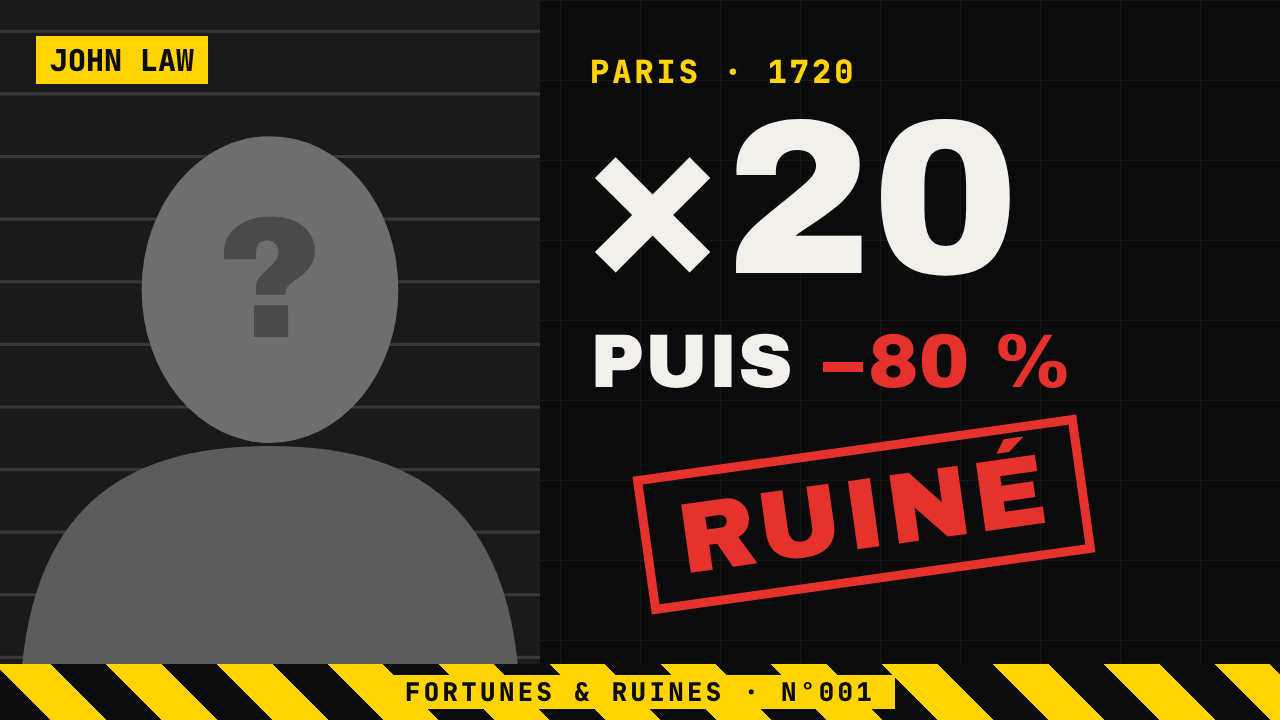
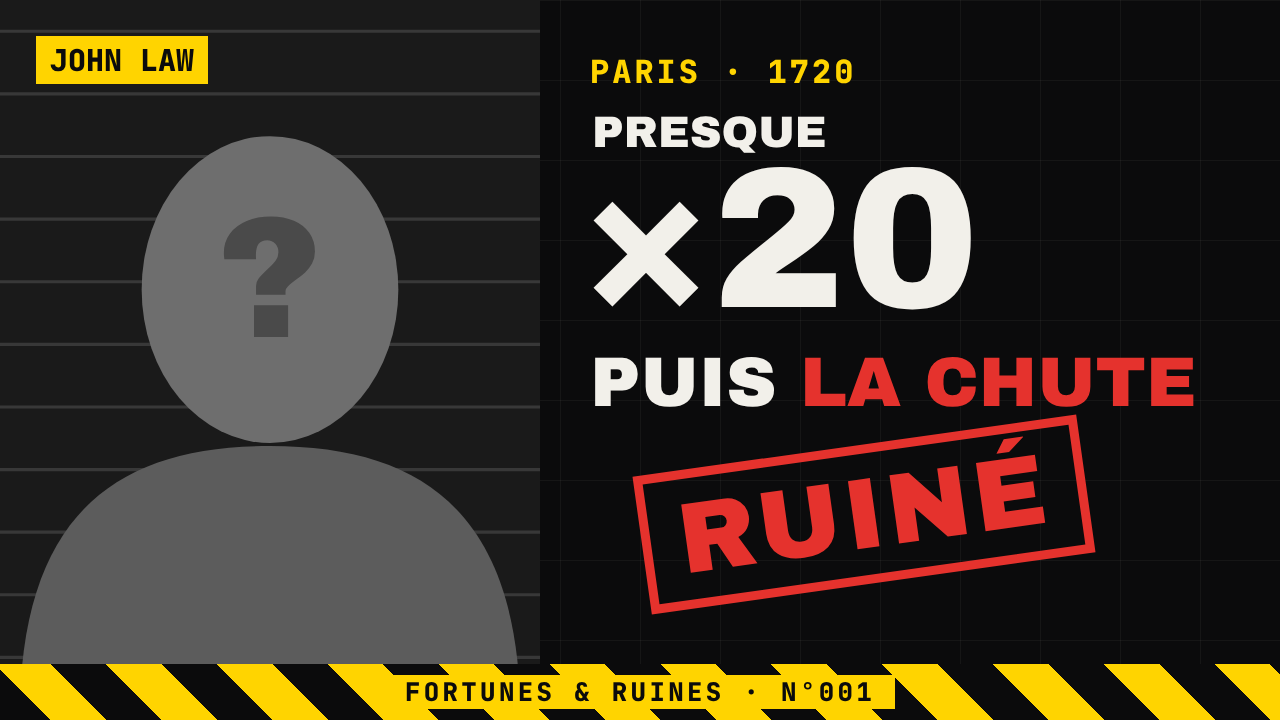
Fusion Claude × ChatGPT : courbes « schéma », « presque ×20 », vrai mécanisme de la chute, tampon sur l'édit, mention reconstitution
Claude-Session: https://claude.ai/code/session_01A2jiqY9XGbzc4Md3oYs5iW

Changed region(s): [[0.4688, 0.1528, 0.8125, 0.4278], [0.4375, 0.4583, 0.9375, 0.5806]]

diff --git a/histoire-argent/src/scenes/illustrated.tsx b/histoire-argent/src/scenes/illustrated.tsx
@@ -155,7 +155,7 @@ export const Crowd: React.FC<{kicker?: string; title: string; ticker: string}> =
 };
 
 // ── Compteur nerveux : paliers successifs, chaque palier frappe.
-export const Ticker: React.FC<{values: number[]; unit: string; label: string}> = ({values, unit, label}) => {
+export const Ticker: React.FC<{values: number[]; unit: string; label: string; note?: string}> = ({values, unit, label, note}) => {
   const f = useCurrentFrame(); const {fps, durationInFrames} = useVideoConfig(); const {s, width, height} = useScale();
   const step = Math.max(10, Math.floor((durationInFrames - 10) / values.length));
   const idx = Math.min(values.length - 1, Math.floor(f / step));
@@ -168,10 +168,11 @@ export const Ticker: React.FC<{values: number[]; unit: string; label: string}> =
     <AbsoluteFill style={{justifyContent: 'center', alignItems: 'center'}}>
       {/* pile de billets qui monte */}
       <div style={{position: 'absolute', bottom: height * 0.18, left: width / 2 - 200 * s, width: 400 * s, height: height * 0.36 * pct,
-        background: `repeating-linear-gradient(0deg, ${C.paper} 0 ${10 * s}px, ${C.ink} ${10 * s}px ${13 * s}px)`, opacity: 0.25}} />
+        background: C.gold, opacity: 0.12}} />
       <div style={{fontFamily: F.mono, fontSize: 34 * s, letterSpacing: 7 * s, color: C.gold, textTransform: 'uppercase', marginBottom: 20 * s}}>{label}</div>
-      <div style={{fontFamily: F.impact, fontSize: 330 * s, lineHeight: 1, color: C.paper, fontVariantNumeric: 'tabular-nums', transform: `scale(${1.25 - 0.25 * punch})`}}>{fmt(v)}</div>
+      <div style={{fontFamily: F.impact, fontSize: 210 * s, lineHeight: 1, whiteSpace: 'nowrap', color: C.paper, fontVariantNumeric: 'tabular-nums', transform: `scale(${1.25 - 0.25 * punch})`}}>{fmt(v)}</div>
       <div style={{fontFamily: F.display, fontStyle: 'italic', fontSize: 70 * s}}>{unit}</div>
+      {note && <div style={{fontFamily: F.mono, fontWeight: 800, fontSize: 24 * s, letterSpacing: 3 * s, color: C.dim, marginTop: 24 * s, textTransform: 'uppercase'}}>{note}</div>}
       <div style={{position: 'absolute', inset: 0, background: C.paper, opacity: Math.max(0, 0.25 - local * 0.05)}} />
     </AbsoluteFill>
   );
@@ -193,6 +194,7 @@ export const Doc: React.FC<{kicker: string; lines: string[]; seal?: string; redL
               lineHeight: 1.15, marginTop: 34 * s, color: i === redLine ? C.red : C.bg, opacity: fadeIn(f, 10 + i * 8)}}>{l}</div>
           ))}
           {[...Array(5)].map((_, i) => <div key={i} style={{height: 3 * s, background: C.ink, opacity: 0.15, marginTop: 34 * s, width: `${90 - i * 9}%`}} />)}
+          <div style={{position: 'absolute', left: 70 * s, bottom: 40 * s, fontFamily: F.mono, fontWeight: 800, fontSize: 20 * s, letterSpacing: 4 * s, color: C.dim}}>RECONSTITUTION</div>
           {seal && (
             <div style={{position: 'absolute', right: 60 * s, bottom: 60 * s, width: 190 * s, height: 190 * s, borderRadius: '50%', background: C.red, color: C.paper,
               display: 'flex', alignItems: 'center', justifyContent: 'center', fontFamily: F.display, fontWeight: 800, fontSize: 40 * s, textAlign: 'center',

diff --git a/histoire-argent/src/Stills.tsx b/histoire-argent/src/Stills.tsx
@@ -52,15 +52,16 @@ export const Banner: React.FC = () => {
 
 export const Thumbnail: React.FC<{episode: Episode}> = ({episode}) => {
   useBrandFonts();
-  const t = episode.thumbnail as {place: string; name: string; big: string; stamp: string; sub?: string};
+  const t = episode.thumbnail as {place: string; name: string; big: string; stamp: string; sub?: string; kicker?: string};
   return (
     <AbsoluteFill style={{background: C.bg, color: C.paper}}>
       <Grid step={80} />
       <div style={{position: 'absolute', left: 0, top: 0, bottom: 0, width: 540, overflow: 'hidden'}}><Mugshot w={540} h={720} /></div>
       <div style={{position: 'absolute', left: 36, top: 36, fontFamily: F.mono, fontWeight: 800, fontSize: 30, background: C.gold, color: C.bg, padding: '4px 14px'}}>{t.name.replace('\n', ' ').toUpperCase()}</div>
       <div style={{position: 'absolute', left: 590, top: 50, fontFamily: F.mono, fontWeight: 800, fontSize: 32, color: C.gold, letterSpacing: 3, textTransform: 'uppercase'}}>{t.place}</div>
-      <div style={{position: 'absolute', left: 580, top: 90, fontFamily: F.display, fontSize: 220, lineHeight: 1}}>{t.big}</div>
-      {t.sub && <div style={{position: 'absolute', left: 590, top: 320, fontFamily: F.display, fontSize: 76, textTransform: 'uppercase'}}>{t.sub.split(' ')[0]} <span style={{color: C.red}}>{t.sub.split(' ').slice(1).join(' ')}</span></div>}
+      {t.kicker && <div style={{position: 'absolute', left: 592, top: 108, fontFamily: F.display, fontSize: 44, color: C.paper, textTransform: 'uppercase'}}>{t.kicker}</div>}
+      <div style={{position: 'absolute', left: 580, top: t.kicker ? 140 : 90, fontFamily: F.display, fontSize: t.kicker ? 200 : 220, lineHeight: 1}}>{t.big}</div>
+      {t.sub && <div style={{position: 'absolute', left: 590, top: 345, fontFamily: F.display, fontSize: 70, textTransform: 'uppercase'}}>{t.sub.split(' ')[0]} <span style={{color: C.red}}>{t.sub.split(' ').slice(1).join(' ')}</span></div>}
       <div style={{position: 'absolute', left: 640, top: 445}}><Stamp text={t.stamp} size={100} /></div>
       <Tape text={`Fortunes & Ruines · N°${episode.serial}`} height={56} style={{bottom: 0}} />
     </AbsoluteFill>

diff --git a/histoire-argent/src/types.ts b/histoire-argent/src/types.ts
@@ -9,7 +9,7 @@ export type Visual =
   | {type: 'lesson'; lines: string[]; next: string}
   | {type: 'press'; kicker?: string; title: string}
   | {type: 'crowd'; kicker?: string; title: string; ticker: string}
-  | {type: 'ticker'; values: number[]; unit: string; label: string}
+  | {type: 'ticker'; values: number[]; unit: string; label: string; note?: string}
   | {type: 'doc'; kicker: string; lines: string[]; seal?: string; redLine?: number}
   | {type: 'machine'; nodes: string[]; center: string}
   | {type: 'gold'; title: string; drain?: boolean}
@@ -18,4 +18,4 @@ export type Visual =
 export type Sfx = {name: string; at?: number; volume?: number; dur?: number};
 export type Scene = {id: string; text: string; sources: string[]; visual: Visual; stamp?: string; audio?: boolean; audioSec?: number; sfx?: Sfx[]};
 export type Episode = {id: string; serial: string; format: 'long' | 'short'; status: string; title: string;
-  thumbnail?: {place: string; name: string; big: string; stamp: string; sub?: string}; wordsPerSecond?: number; audioDir?: string; transitionSfx?: string; bed?: {name: string; volume: number}; scenes: Scene[]};
+  thumbnail?: {place: string; name: string; big: string; stamp: string; sub?: string; kicker?: string}; wordsPerSecond?: number; audioDir?: string; transitionSfx?: string; bed?: {name: string; volume: number}; scenes: Scene[]};

diff --git a/histoire-argent/src/kit.tsx b/histoire-argent/src/kit.tsx
@@ -36,12 +36,12 @@ export const Frame: React.FC<{children: React.ReactNode; serial: string; sources
 };
 
 // Signature n°3 : le tampon rouge, une seule fois par épisode.
-export const Stamp: React.FC<{text: string; delay: number}> = ({text, delay}) => {
+export const Stamp: React.FC<{text: string; delay: number; low?: boolean}> = ({text, delay, low}) => {
   const f = useCurrentFrame(); const {fps} = useVideoConfig(); const {s, vertical} = useScale();
   if (f < delay) return null;
   const k = spring({frame: f - delay, fps, config: {damping: 9, stiffness: 220}});
   return (
-    <div style={{position: 'absolute', right: (vertical ? 90 : 130) * s, top: (vertical ? 250 : 150) * s,
+    <div style={{position: 'absolute', right: (vertical ? 90 : 130) * s, top: (low ? (vertical ? 1180 : 620) : (vertical ? 250 : 150)) * s,
       transform: `rotate(-8deg) scale(${1.7 - 0.7 * k})`, opacity: Math.min(1, k * 2.5),
       border: `${11 * s}px solid ${C.red}`, color: C.red, fontFamily: F.impact, fontSize: 130 * s, lineHeight: 1.05,
       letterSpacing: 6 * s, padding: `${18 * s}px ${30 * s}px ${4 * s}px`}}>{text}</div>

diff --git a/histoire-argent/src/Episode.tsx b/histoire-argent/src/Episode.tsx
@@ -61,7 +61,7 @@ export const EpisodeVideo: React.FC<{episode: Ep; subtitles?: boolean}> = ({epis
               <Frame serial={episode.serial} sources={sc.sources}>
                 <Visual scene={sc} serial={episode.serial} />
               </Frame>
-              {sc.stamp && <Stamp text={sc.stamp} delay={stampDelay(sc.visual, frames)} />}
+              {sc.stamp && <Stamp text={sc.stamp} delay={stampDelay(sc.visual, frames)} low={sc.visual.type === 'doc'} />}
               {subtitles && <Subtitles text={sc.text} frames={sc.audioSec ? Math.round(sc.audioSec * FPS) + 6 : frames} />}
             </Series.Sequence>
           );

diff --git a/histoire-argent/comparatif/fusion/RESULTAT_FUSION.md b/histoire-argent/comparatif/fusion/RESULTAT_FUSION.md
@@ -1,0 +1,30 @@
+# Résultat de la fusion Claude × ChatGPT · 19/11/2026
+
+ChatGPT a rendu une charte « Le Registre imprimé » (2 pages), un storyboard du Short (7 scènes, 53 s) et un script Python qui génère ces PDF.
+Il n'a pas suivi les messages 2 et 3 du protocole : la comparaison ci-dessous est faite par Claude. Elle n'est donc pas neutre, mais les écarts au brief sont factuels.
+
+## Comparaison
+| Critère | Claude | ChatGPT | Retenu |
+|---|---|---|---|
+| Respect du brief (nom, rythme, 10-12 scènes) | ✅ Fortunes & Ruines, ~3 mots/s, 11 scènes | ❌ ancien nom, 125 mots/min, 7 scènes | Claude |
+| Direction artistique | Dossier d'enquête noir, jaune, rouge | Papier crème et encre verte, proche de la v2 rejetée par Alaa | Claude |
+| Production | Vidéo Remotion animée, bruitages, tests | Images fixes en PDF, polices Windows | Claude |
+| Rigueur des chiffres | Courbe avec valeurs intermédiaires inventées | Deux points sourcés seulement, mention « schéma » | **ChatGPT** |
+| Honnêteté du chiffre clé | « ×20 » | « presque ×20 » | **ChatGPT** |
+| Explication de la chute | « Les gros porteurs réclament l'or » (simplifié) | Rachat des actions par la banque, l'édit, le retrait de l'édit | **ChatGPT** |
+| Placement du tampon | Sur la courbe | Sur l'édit du 21 mai | **ChatGPT** (et cohérent avec le concept « dossier ») |
+| Réserve pour les sous-titres | Oui | Oui, explicite | Égalité |
+
+## Ce qui a été intégré
+1. Compteur avec la mention « Paliers intermédiaires : schéma ». La courbe aux valeurs inventées est retirée du Short.
+2. « Presque vingt fois plus » à l'oral et « PRESQUE ×20 » sur la miniature.
+3. Scène v08 : « Pour tenir le prix, la banque rachète les actions. Avec toujours plus de billets. » (presse, mars 1720).
+4. Scène v09 : l'édit du 21 mai 1720 en document, avec le tampon KRACH posé dessus.
+5. Scène v10 : « L'édit est retiré. Mais la confiance ne revient pas. »
+6. Mention « RECONSTITUTION » sur les documents d'époque.
+
+## Ce qui n'a pas été repris, et pourquoi
+- La palette papier et vert, et le nom « L'Histoire de l'Argent » : déjà rejetés par Alaa.
+- Les polices Georgia, Bahnschrift et Consolas : polices système Windows, absentes de Linux et de Remotion, et moins distinctives.
+- Le rythme de 125 mots par minute et les scènes de 8 à 10 s : contraires au rythme rapide demandé.
+- La génération de PDF en Python : le projet produit des vidéos, pas des planches.

diff --git a/histoire-argent/content/episodes/script-shortV2.md b/histoire-argent/content/episodes/script-shortV2.md
@@ -1,14 +1,14 @@
 # N° 001 · Il a imprimé la France jusqu'à la ruine
 
 > Fichier généré depuis `content/episodes/ep01-short-v2.json` : ne pas modifier ici.
-> Statut : **DRAFT** · 11 scènes · ~53 s
+> Statut : **DRAFT** · 11 scènes · ~58 s
 
 **Titres possibles** : « Il a imprimé la France jusqu'à la ruine » · « 500 → 10 000 livres, puis plus rien » · « Le condamné à mort qui a dirigé la France »
 
 **Description** : John Law, 1720 : la première grande bulle de Paris. L'épisode complet est sur la chaîne.
 
 ## v01 · press
-En 1719, un homme fait tourner la planche à billets. Et la France entière devient folle.
+En 1719, un homme fait tourner la planche à billets. Et la France devient folle.
 
 _Sources : velde2003_
 
@@ -18,12 +18,12 @@ Rue Quincampoix, tout Paris se bat pour une action.
 _Sources : moen2001_
 
 ## v03 · ticker
-500 livres. 2 000. 5 000. Près de 10 000 !
+500 livres. 2 000. 5 000. Fin 1719 : près de 10 000. Presque vingt fois plus !
 
 _Sources : velde2003, moen2001_
 
 ## v04 · doc
-Derrière tout ça, un Écossais : John Law. Condamné à mort à Londres.
+Derrière, un Écossais : John Law. Condamné à mort à Londres.
 
 _Sources : murphy1997_
 
@@ -33,7 +33,7 @@ Vingt-six ans plus tard, il dirige les finances du royaume.
 _Sources : murphy1997_
 
 ## v06 · machine
-Son astuce : des billets, qui achètent des actions, qui paient la dette du roi. Et ça tourne.
+Son astuce : des billets, qui achètent des actions, qui paient la dette du roi.
 
 _Sources : velde2003_
 
@@ -42,20 +42,20 @@ Tout tient… tant que personne ne demande son or.
 
 _Sources : velde2003_
 
-## v08 · gold
-Puis les gros porteurs viennent le réclamer.
+## v08 · press
+Pour tenir le prix, la banque rachète les actions. Avec toujours plus de billets.
 
 _Sources : velde2003_
 
-## v09 · curve · tampon « KRACH »
-Mai 1720 : un édit, la panique. L'action s'effondre.
+## v09 · doc · tampon « KRACH »
+21 mai 1720 : un édit annonce la baisse des billets et des actions. Panique.
 
 _Sources : velde2003, nyfed2014_
 
 ## v10 · burn
-Le papier ne vaut presque plus rien. Des fortunes partent en fumée.
+L'édit est retiré. Mais la confiance ne revient pas. Le papier ne vaut presque plus rien.
 
-_Sources : moen2001_
+_Sources : velde2003, moen2001_
 
 ## v11 · outro
 Ce qui monte parce que tout le monde achète… baisse parce que tout le monde vend.

diff --git a/histoire-argent/content/research/fact-check.md b/histoire-argent/content/research/fact-check.md
@@ -33,3 +33,10 @@ Légende : ✅ établi par la source citée · ⚠ à relire dans la source a
 | — | Dette de 2,8 milliards de livres en 1715 | ❌ retiré comme chiffre ferme | — |
 
 **Règle** : tant qu'une ligne ⚠ porte sur un chiffre prononcé, le statut de l'épisode reste `DRAFT`.
+
+## Fusion avec la proposition ChatGPT (19/11)
+- Short : la courbe aux valeurs intermédiaires inventées est supprimée. Le compteur affiche les paliers 2 000 et 5 000 avec la mention « Paliers intermédiaires : schéma ». Seuls 500 et environ 10 000 sont sourcés.
+- Short : la mention « presque ×20 » remplace « ×20 ».
+- Short : la chute s'explique par le mécanisme réel, le rachat des actions par la banque avec des billets (Velde), et non plus par « les gros porteurs réclament l'or ».
+- Les documents d'époque à l'écran (sentence, nomination, édit) portent la mention « RECONSTITUTION » : ce sont des évocations, pas des fac-similés.
+- ⚠ La vidéo longue garde encore l'ancienne courbe. À corriger lors de sa refonte.
